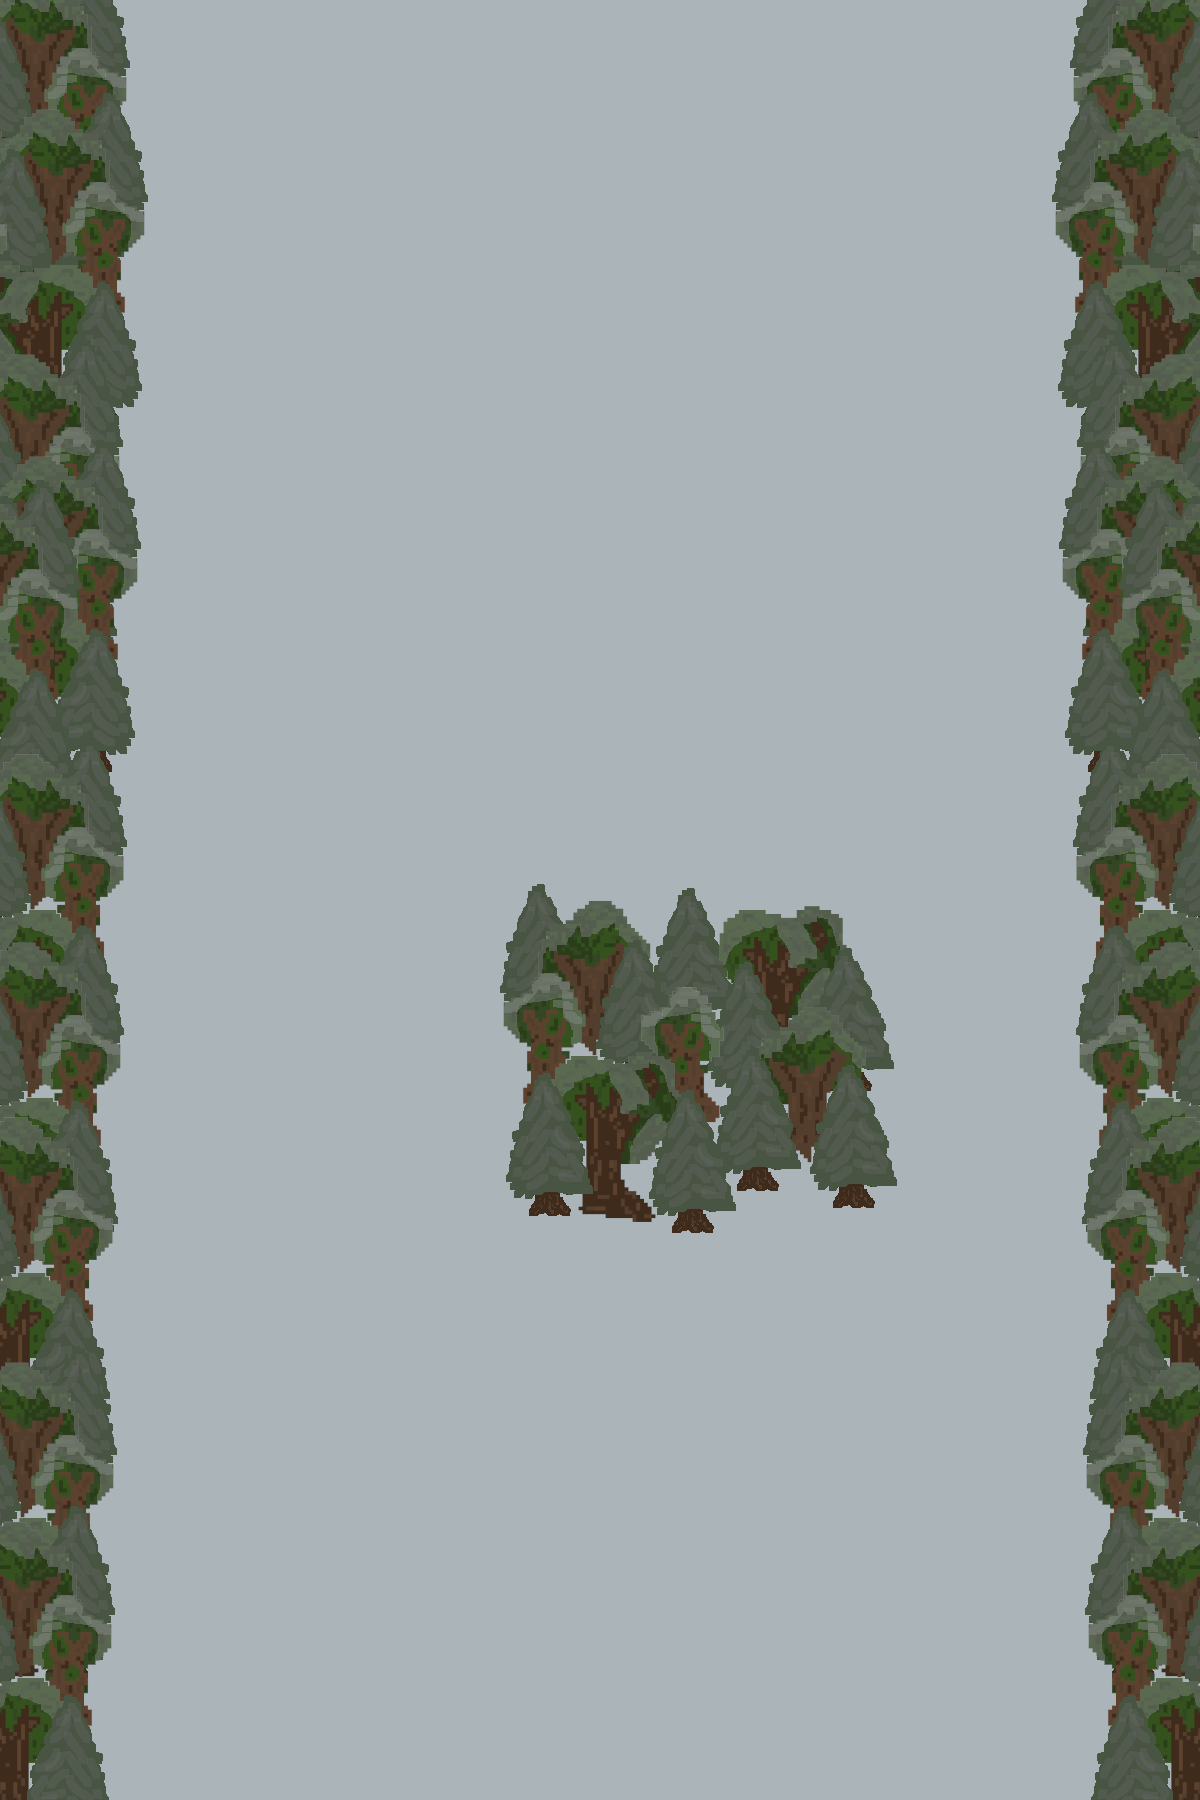
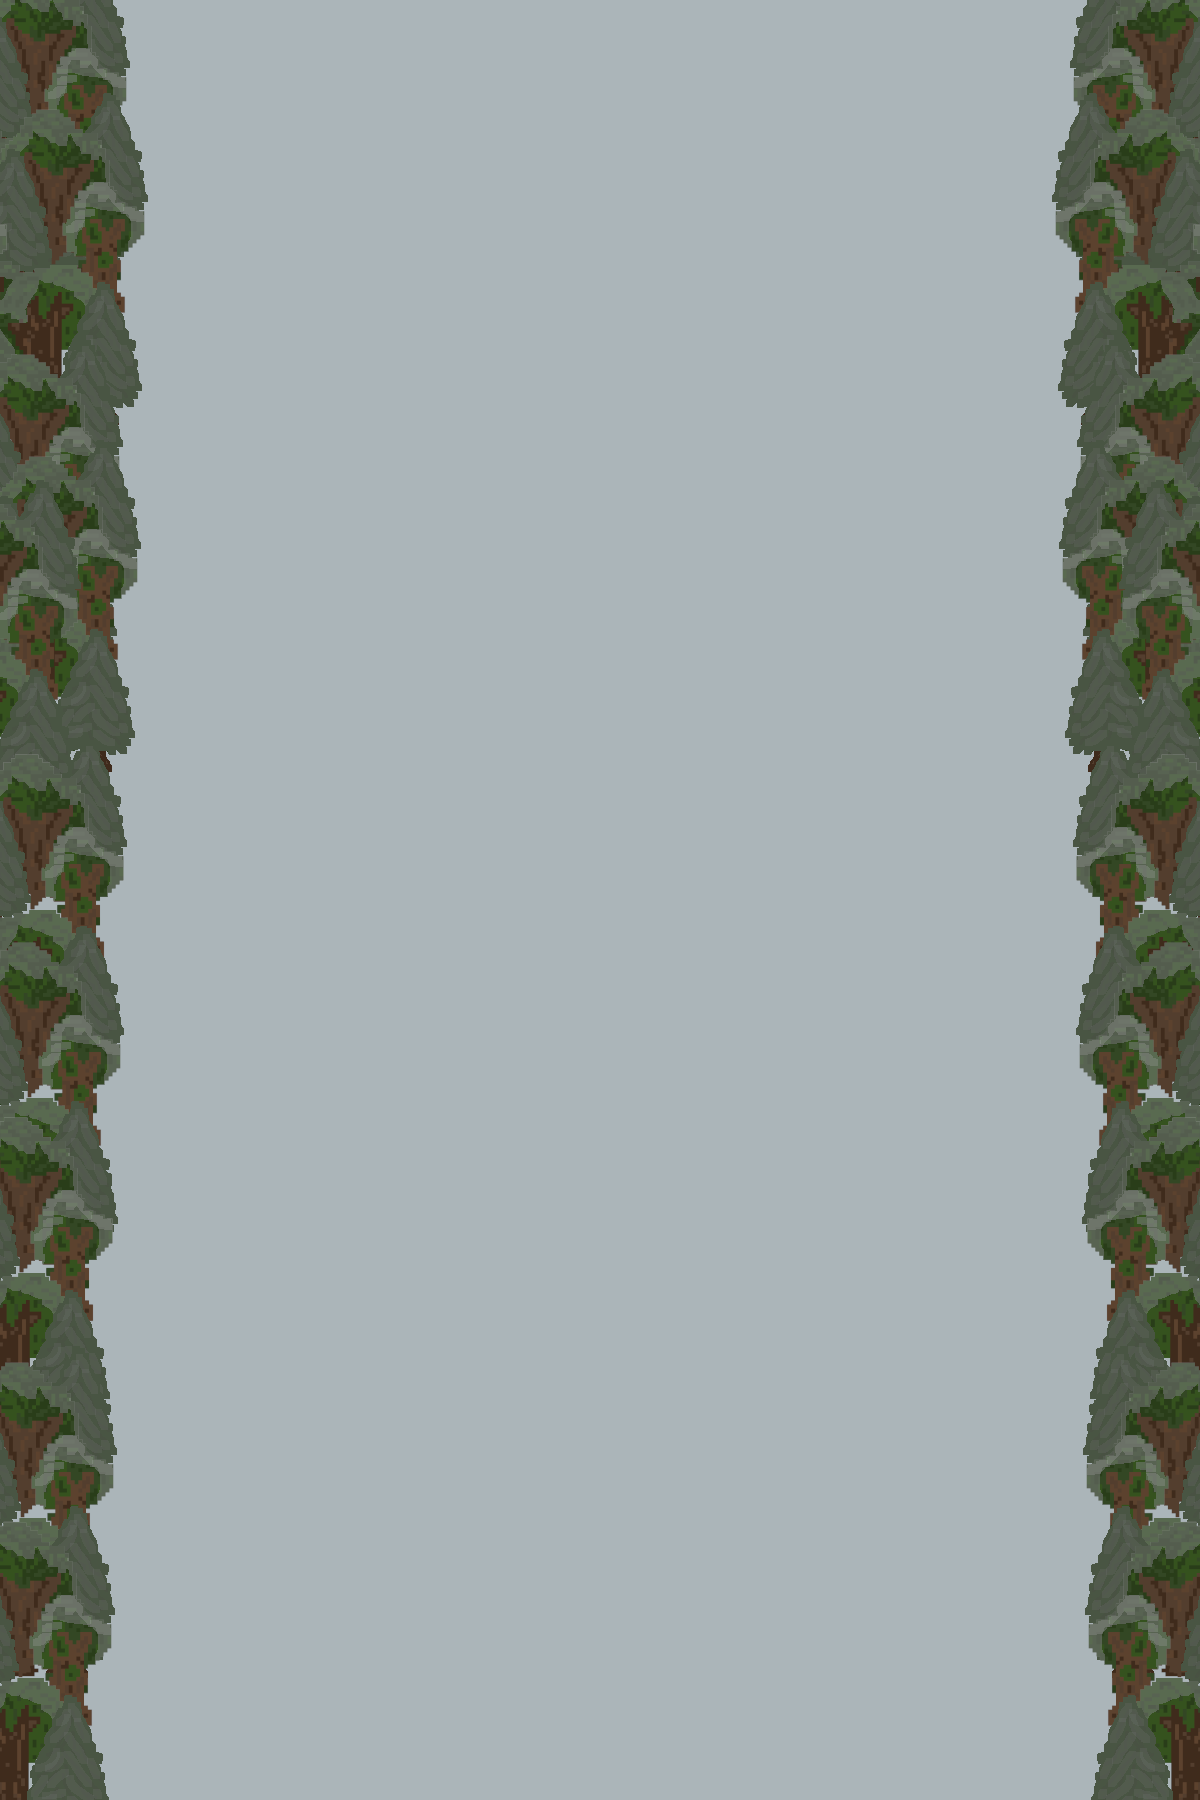
added trees and lose val

Changed region(s): [[0.4008, 0.4978, 0.74, 0.6844]]

diff --git a/object/functions.py b/object/functions.py
@@ -11,32 +11,42 @@ def chart(screen, x, y):
     screen.blit(player, (570 + x, 80))
 
 
-def move(screen, x, y, n, forest_long, forest_var, forest_start, forest_change, kier):
+def move(screen, x, y, n, score, objects, kier):
+    death_zone = {'x1': -465, 'x2': 465, 'y1': 0, 'y2': 1800}
+    death_objects = []
     chart(screen, x, y + n)
     if kier == 1:
         x -= n
     elif kier == 2:
         x += n
-    if y % 300 == 0:
-        forest_long = forest_long - 1
-    if forest_long == 0:
-        if forest_change == 1:
-            forest_tab = obstacles.randomise_forest()
-            forest_var[0] = forest_tab[0][1]
-            forest_var[1] = forest_tab[0][2]
-            forest_long = forest_tab[1]
-            forest_start = y + 600
-            forest_change = 1
+    if y == 0:
+        objects[0]['type'] = obstacles.randomise_forest()
+        objects[0]['start'] = 900
+        objects[1]['start'] = 0
+    if y == 900:
+        objects[1]['type'] = obstacles.randomise_forest()
+        objects[1]['start'] = 1800
+    death = obstacles.forest(screen, y, objects[0])
+    death_objects.append({'x1': death[0], 'x2': death[1], 'y1': death[2], 'y2': death[3]})
+    death = obstacles.forest(screen, y, objects[1])
+    death_objects.append({'x1': death[0], 'x2': death[1], 'y1': death[2], 'y2': death[3]})
+
+    death = obstacles.death_border_function(x, y, death_zone)
+
+    for i in range(len(death_objects)):
+        if death == 1:
+            break
+        if objects[i]['type'] != 4:
+            death = obstacles.death_function(x, y, death_objects[i])
         else:
-            forest_tab = obstacles.randomise_forest()
-            forest_var[2] = forest_tab[0][1]
-            forest_var[3] = forest_tab[0][2]
-            forest_start = y + 1200
-            forest_change = 0
-    obstacles.forest(screen, y, forest_var, forest_start)
+            death = obstacles.death_border_function(x, y, death_objects[i])
+    print(death)
+
+
+
     if y + n >= 1800:
-        return [x, 0, n, forest_long, forest_var, forest_start, kier]
-    return [x, y + n, n, forest_long, forest_var, forest_start, kier]
+        return [x, 0, n, score, objects]
+    return [x, y + n, n, score, objects]
 
 
 def lost(game):

diff --git a/object/obstacles.py b/object/obstacles.py
@@ -4,28 +4,31 @@ import random
 grove = pygame.image.load("../img/objects/forest.png")
 
 
-def forest(screen, y, f_tab, f_start):
-    for i in range(4):
-        if f_tab[i] != 0:
-            screen.blit(grove, (i * 400, (f_start - y)))
-    return
+def forest(screen, y, f_tab):
+    if f_tab['type'] == 1:
+        x = 0
+    elif f_tab['type'] == 2:
+        x = 400
+    elif f_tab['type'] == 3:
+        x = 800
+    else:
+        screen.blit(grove, (0, f_tab['start'] - y))
+        screen.blit(grove, (800, f_tab['start'] - y))
+        return -180, 180, f_tab['start'] - 80, f_tab['start'] + 720
+    screen.blit(grove, (x, f_tab['start'] - y))
+    return x-620, x-180, f_tab['start'] - 80, f_tab['start'] + 720
+
+
+def death_function(x, y, mig):
+    if mig['x1'] < x < mig['x2'] and mig['y1'] < y < mig['y2']:
+        return 1
+
+
+def death_border_function(x, y, mig):
+    if (mig['x1'] > x or x > mig['x2']) and mig['y1'] < y < mig['y2']:
+        return 1
 
 
 def randomise_forest():
-    side = random.randint(0, 3)
-    if side == 0:
-        long = random.randint(1, 5)
-        return [0, long, 0], long
-    elif side == 1:
-        long = random.randint(1, 5)
-        return [long, 0, 0], long
-    elif side == 2:
-        long = random.randint(1, 5)
-        return [0, 0, long], long
-    else:
-        left_long = random.randint(1, 5)
-        right_long = random.randint(1, 5)
-        if left_long >= right_long:
-            return [left_long, 0, right_long], left_long
-        else:
-            return [left_long, 0, right_long], right_long
+    side = random.randint(1, 4)
+    return side

diff --git a/main/main.py b/main/main.py
@@ -7,7 +7,10 @@ pygame.init()
 
 game = False
 control = 0
-cords = [0, 0, 3, 1, [0, 0, 0, 0], 1, 0]
+cords = [0, 0, 3, 0, [{'type': 0, 'start': 0},
+                   {'type': 0, 'start': 0},
+                   {'type': 0, 'start': 0},
+                   {'type': 0, 'start': 0}]]
 
 pygame.display.set_caption('Shroom Collector')
 screen = pygame.display.set_mode((static.SCR_WITDH, static.SCR_HEIGT))
@@ -45,7 +48,7 @@ while run:
                     run = False
             menu.menu(screen, control)
     if game:
-        cords = play.move(screen, cords[0], cords[1], cords[2], cords[3], cords[4], cords[5], cords[6], control)
+        cords = play.move(screen, cords[0], cords[1], cords[2], cords[3], cords[4], control)
         if cords[2] == 0:
             game = play.lost(game)
     pygame.display.update()
